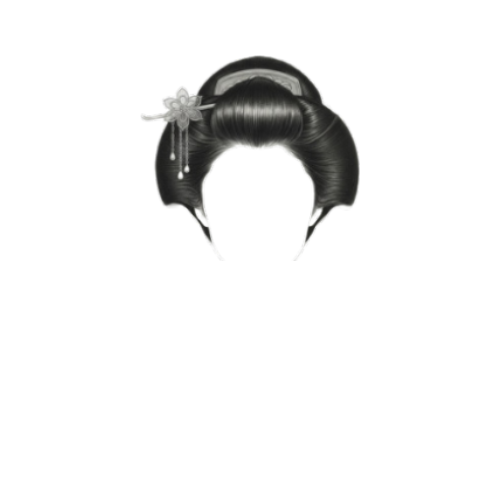
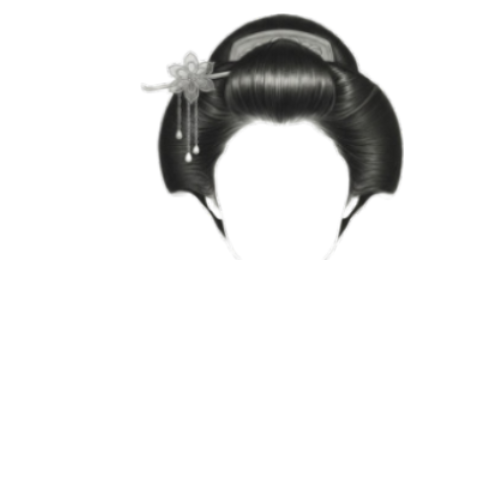
Widen femhair12 close-up, anchored at bottom-left corner

Changed region(s): [[0.27, 0.03, 0.81, 0.48]]

diff --git a/character-customizer/character-race/female-races/femhuman/cc-fem-hum.js b/character-customizer/character-race/female-races/femhuman/cc-fem-hum.js
@@ -67,7 +67,7 @@ const hairOptions = [
   { src: `${BASE}femhair9.png`, thumb: `${BASE}femhair9-tmb.png`, clup: `${BASE}femhair9-clup.png`, enabled: true },
   { src: `${BASE}femhair10.png`, thumb: `${BASE}femhair10-tmb.png`, clup: `${BASE}femhair10-clup.png`, enabled: true },
   { src: `${BASE}femhair11.png`, thumb: `${BASE}femhair11-tmb.png`, clup: `${BASE}femhair11-clup.png`, enabled: true },
-  { src: `${BASE}femhair12.png`, thumb: `${BASE}femhair12-tmb.png`, clup: `${BASE}femhair12-clup.png?v=3`, enabled: true }
+  { src: `${BASE}femhair12.png`, thumb: `${BASE}femhair12-tmb.png`, clup: `${BASE}femhair12-clup.png?v=4`, enabled: true }
 ];
 
 let selected = {

diff --git a/character-customizer/character-race/female-races/femhuman/fem-human.html b/character-customizer/character-race/female-races/femhuman/fem-human.html
@@ -664,7 +664,7 @@ h1 {
 
   <div id="footer"></div>
   
-  <script src="cc-fem-hum.js?v=20260619k"></script>
+  <script src="cc-fem-hum.js?v=20260619l"></script>
   <script src="../../../../main.js"></script>
 </body>
 </html>
